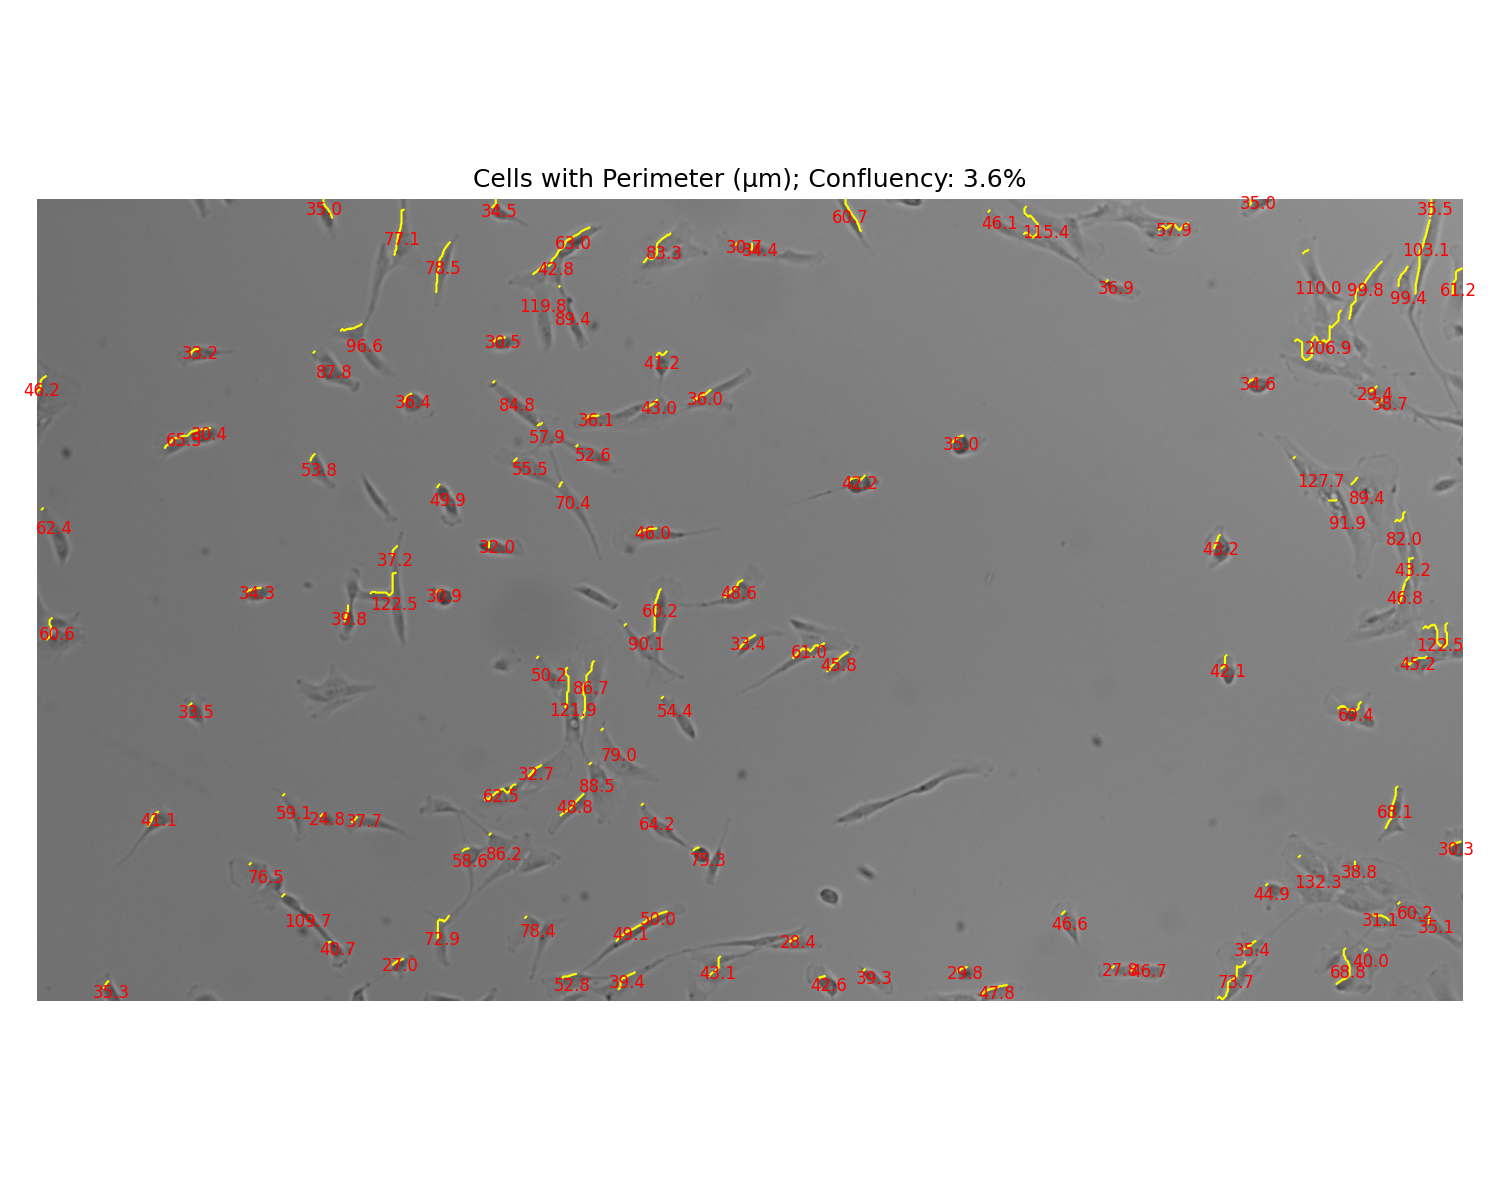
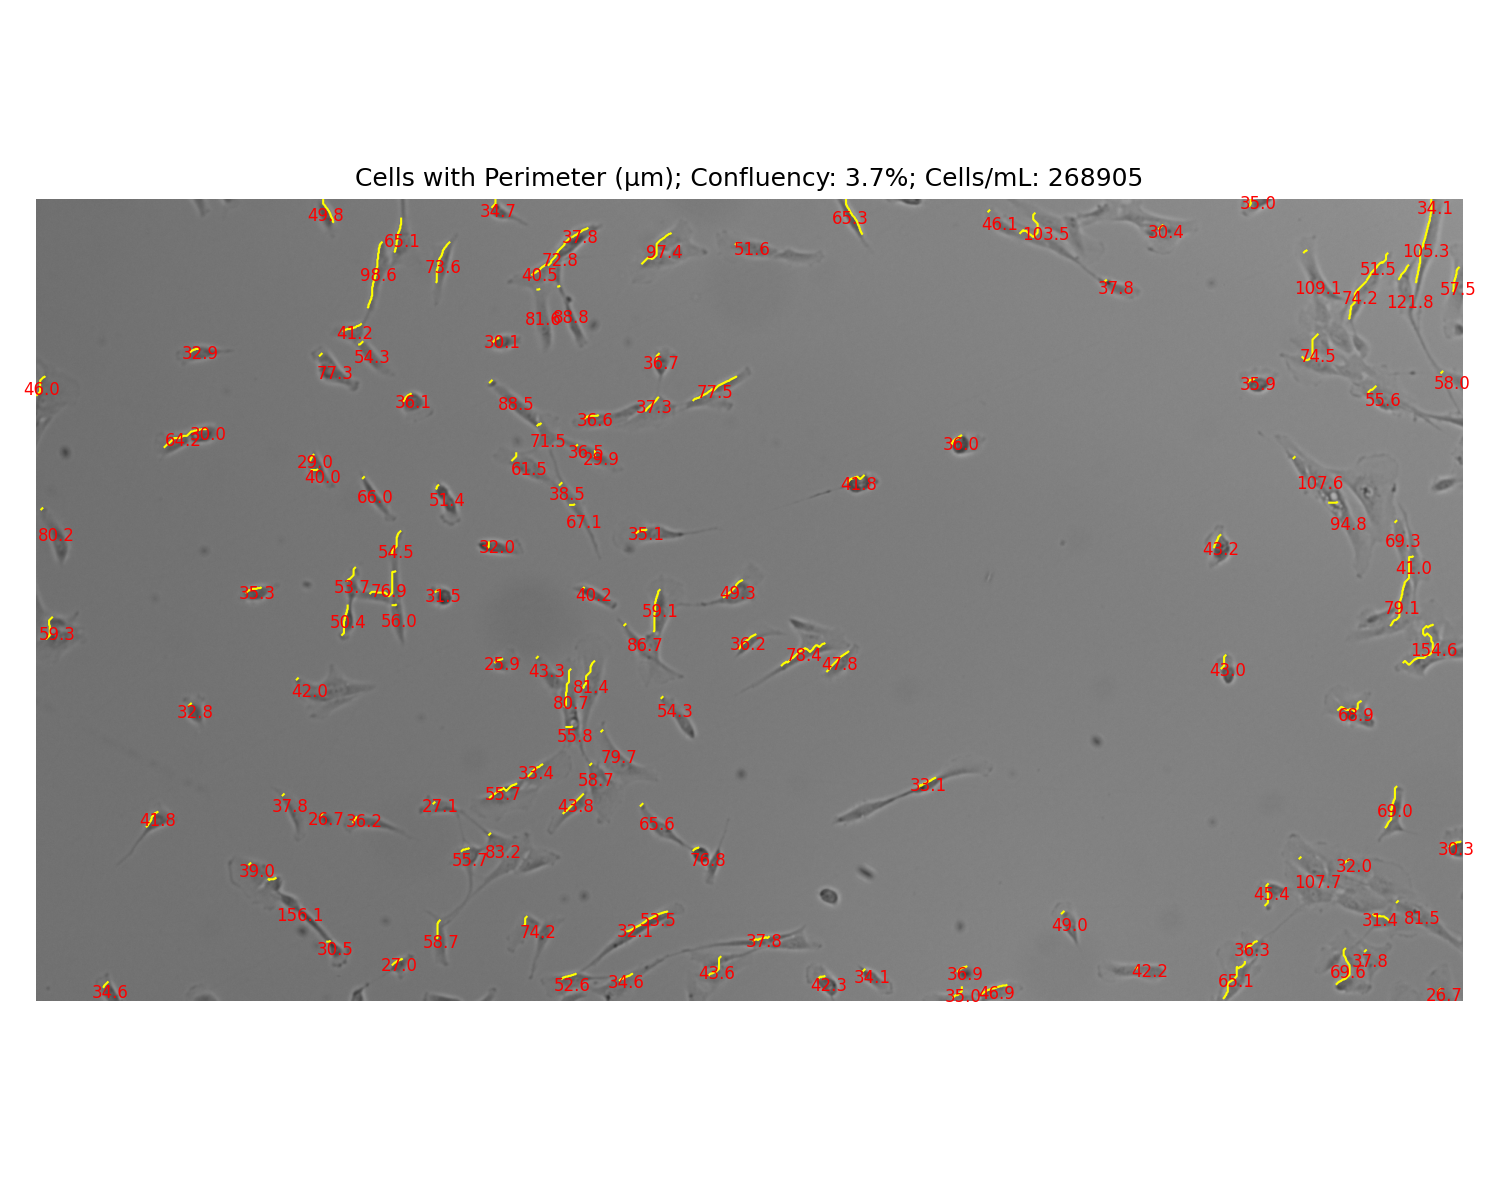
optimization

diff --git a/analysis.py b/analysis.py
@@ -47,7 +47,7 @@ def process_image(img_path):
 
     # 3. Preprocessing: 
     # Denoise + optional morphological top-hat to highlight elongated cells
-    denoised = cv2.bilateralFilter(gray, 9, 75, 75)
+    denoised = cv2.bilateralFilter(gray, 11, 80, 80)
 
     # (Optional) Top-hat transform to isolate bright/dark features
     # kernel_th = cv2.getStructuringElement(cv2.MORPH_RECT, (15, 15))
@@ -57,7 +57,7 @@ def process_image(img_path):
     # For now, let's continue using denoised directly:
 
     # 4. Contrast enhancement with CLAHE
-    clahe = cv2.createCLAHE(clipLimit=3.0, tileGridSize=(8, 8))
+    clahe = cv2.createCLAHE(clipLimit=3.0, tileGridSize=(7, 7))
     enhanced = clahe.apply(denoised)
 
     # 5. Invert if cells appear dark on bright background 
@@ -142,7 +142,7 @@ def analyze_cells(label_image, intensity_image):
 
 
 
-def visualize_and_save(original, label_image, perimeter_map_path, colored_path, confluency_percent, df):
+def visualize_and_save(original, label_image, perimeter_map_path, colored_path, confluency_percent, cells_per_mL, df):
     """
     - Overlays cell contours and perimeter values (in µm) on 'original'
     - Saves a color-labeled segmentation image
@@ -154,7 +154,7 @@ def visualize_and_save(original, label_image, perimeter_map_path, colored_path, 
     # 1) Annotated image with perimeter
     fig1, ax1 = plt.subplots(figsize=(10, 8))
     ax1.imshow(original)
-    ax1.set_title(f"Cells with Perimeter (µm); Confluency: {confluency_percent:.1f}%")
+    ax1.set_title(f"Cells with Perimeter (µm); Confluency: {confluency_percent:.1f}%; Cells/mL: {cells_per_mL:.0f}")
 
     # Get region properties again to annotate
     props = measure.regionprops(label_image)
@@ -179,12 +179,11 @@ def visualize_and_save(original, label_image, perimeter_map_path, colored_path, 
     # 2) Color-labeled segmentation image
     fig2, ax2 = plt.subplots(figsize=(10, 8))
     ax2.imshow(colored_labels)
-    ax2.set_title(f"Color-Labeled Segmentation; Confluency: {confluency_percent:.1f}%")
+    ax2.set_title(f"Color-Labeled Segmentation; Confluency: {confluency_percent:.1f}%; Cells/mL: {cells_per_mL:.0f}")
     ax2.axis('off')
     fig2.tight_layout()
     fig2.savefig(colored_path, dpi=150)
     plt.close(fig2)
-
 
 def main():
     all_results = []
@@ -216,32 +215,46 @@ def main():
                 "Estimated_Cells": cell_count
             })
 
-            # Save segmentation images with confluency in title
+            # Define culture parameters
+            CULTURE_AREA_CM2 = 25         # e.g., area of a T-25 flask in cm² 
+            RESUSPENSION_VOLUME_ML = 3      # volume in mL when cells are resuspended
+
+            # Calculate imaged area (using a 1920x1080 image and PIXELS_PER_UM = 2.21)
+            # (h and w are taken from labels.shape; if your images are always 1920x1080, then h=1080, w=1920)
+            imaged_area_um2 = (w / PIXELS_PER_UM) * (h / PIXELS_PER_UM)
+            imaged_area_cm2 = imaged_area_um2 / 1e8  # 1 cm² = 1e8 µm²
+
+            # Calculate density (cells per cm²) from imaged data:
+            density_cells_per_cm2 = cell_count / imaged_area_cm2
+
+            # Estimate total cells on the culture surface:
+            total_cells = density_cells_per_cm2 * CULTURE_AREA_CM2
+
+            # Finally, calculate cells per mL:
+            cells_per_mL = total_cells / RESUSPENSION_VOLUME_ML
+
+            # Compute file paths for saving images:
             base_name = os.path.splitext(file)[0]
             perimeter_map_path = os.path.join(OUTPUT_SEGMENTED_DIR, f"{base_name}_perimeter.png")
             colored_path = os.path.join(OUTPUT_SEGMENTED_DIR, f"{base_name}_colored.png")
-            visualize_and_save(original, labels, perimeter_map_path, colored_path, confluency, df)
 
-    # -------------------
-    # Combine and save results
-    # -------------------
+            # Call visualize_and_save() once with all needed parameters:
+            visualize_and_save(original, labels, perimeter_map_path, colored_path, confluency, cells_per_mL, df)
+
+    # Combine and save results...
     if all_results:
         final_df = pd.concat(all_results, ignore_index=True)
         final_df.to_csv(OUTPUT_CSV, index=False)
         print("Analysis Summary (All Regions Across All Images):")
         print(final_df.describe())
 
-        # Save summary of confluency + cell counts
         summary_df = pd.DataFrame(summary_list)
         summary_df.to_csv("outputs/image_summaries.csv", index=False)
         print("\nImage-Level Summary (Confluency, Cell Count):")
         print(summary_df)
 
-        # -------------------
-        # One combined plot for all images
-        # -------------------
+        # Combined feature distribution plot code...
         fig, axes = plt.subplots(2, 3, figsize=(18, 12))
-        # Histograms for entire dataset
         final_df.hist(column='Area_um2', bins=30, ax=axes[0, 0])
         axes[0, 0].set_title("Area (µm²) - All Images")
         final_df.hist(column='Perimeter_um', bins=30, ax=axes[0, 1])
@@ -259,7 +272,6 @@ def main():
         plt.savefig("outputs/combined_feature_distributions.png", dpi=150)
         plt.close()
         print("Combined feature distribution plot saved as 'combined_feature_distributions.png'.")
-
     else:
         print("No images processed.")
 
